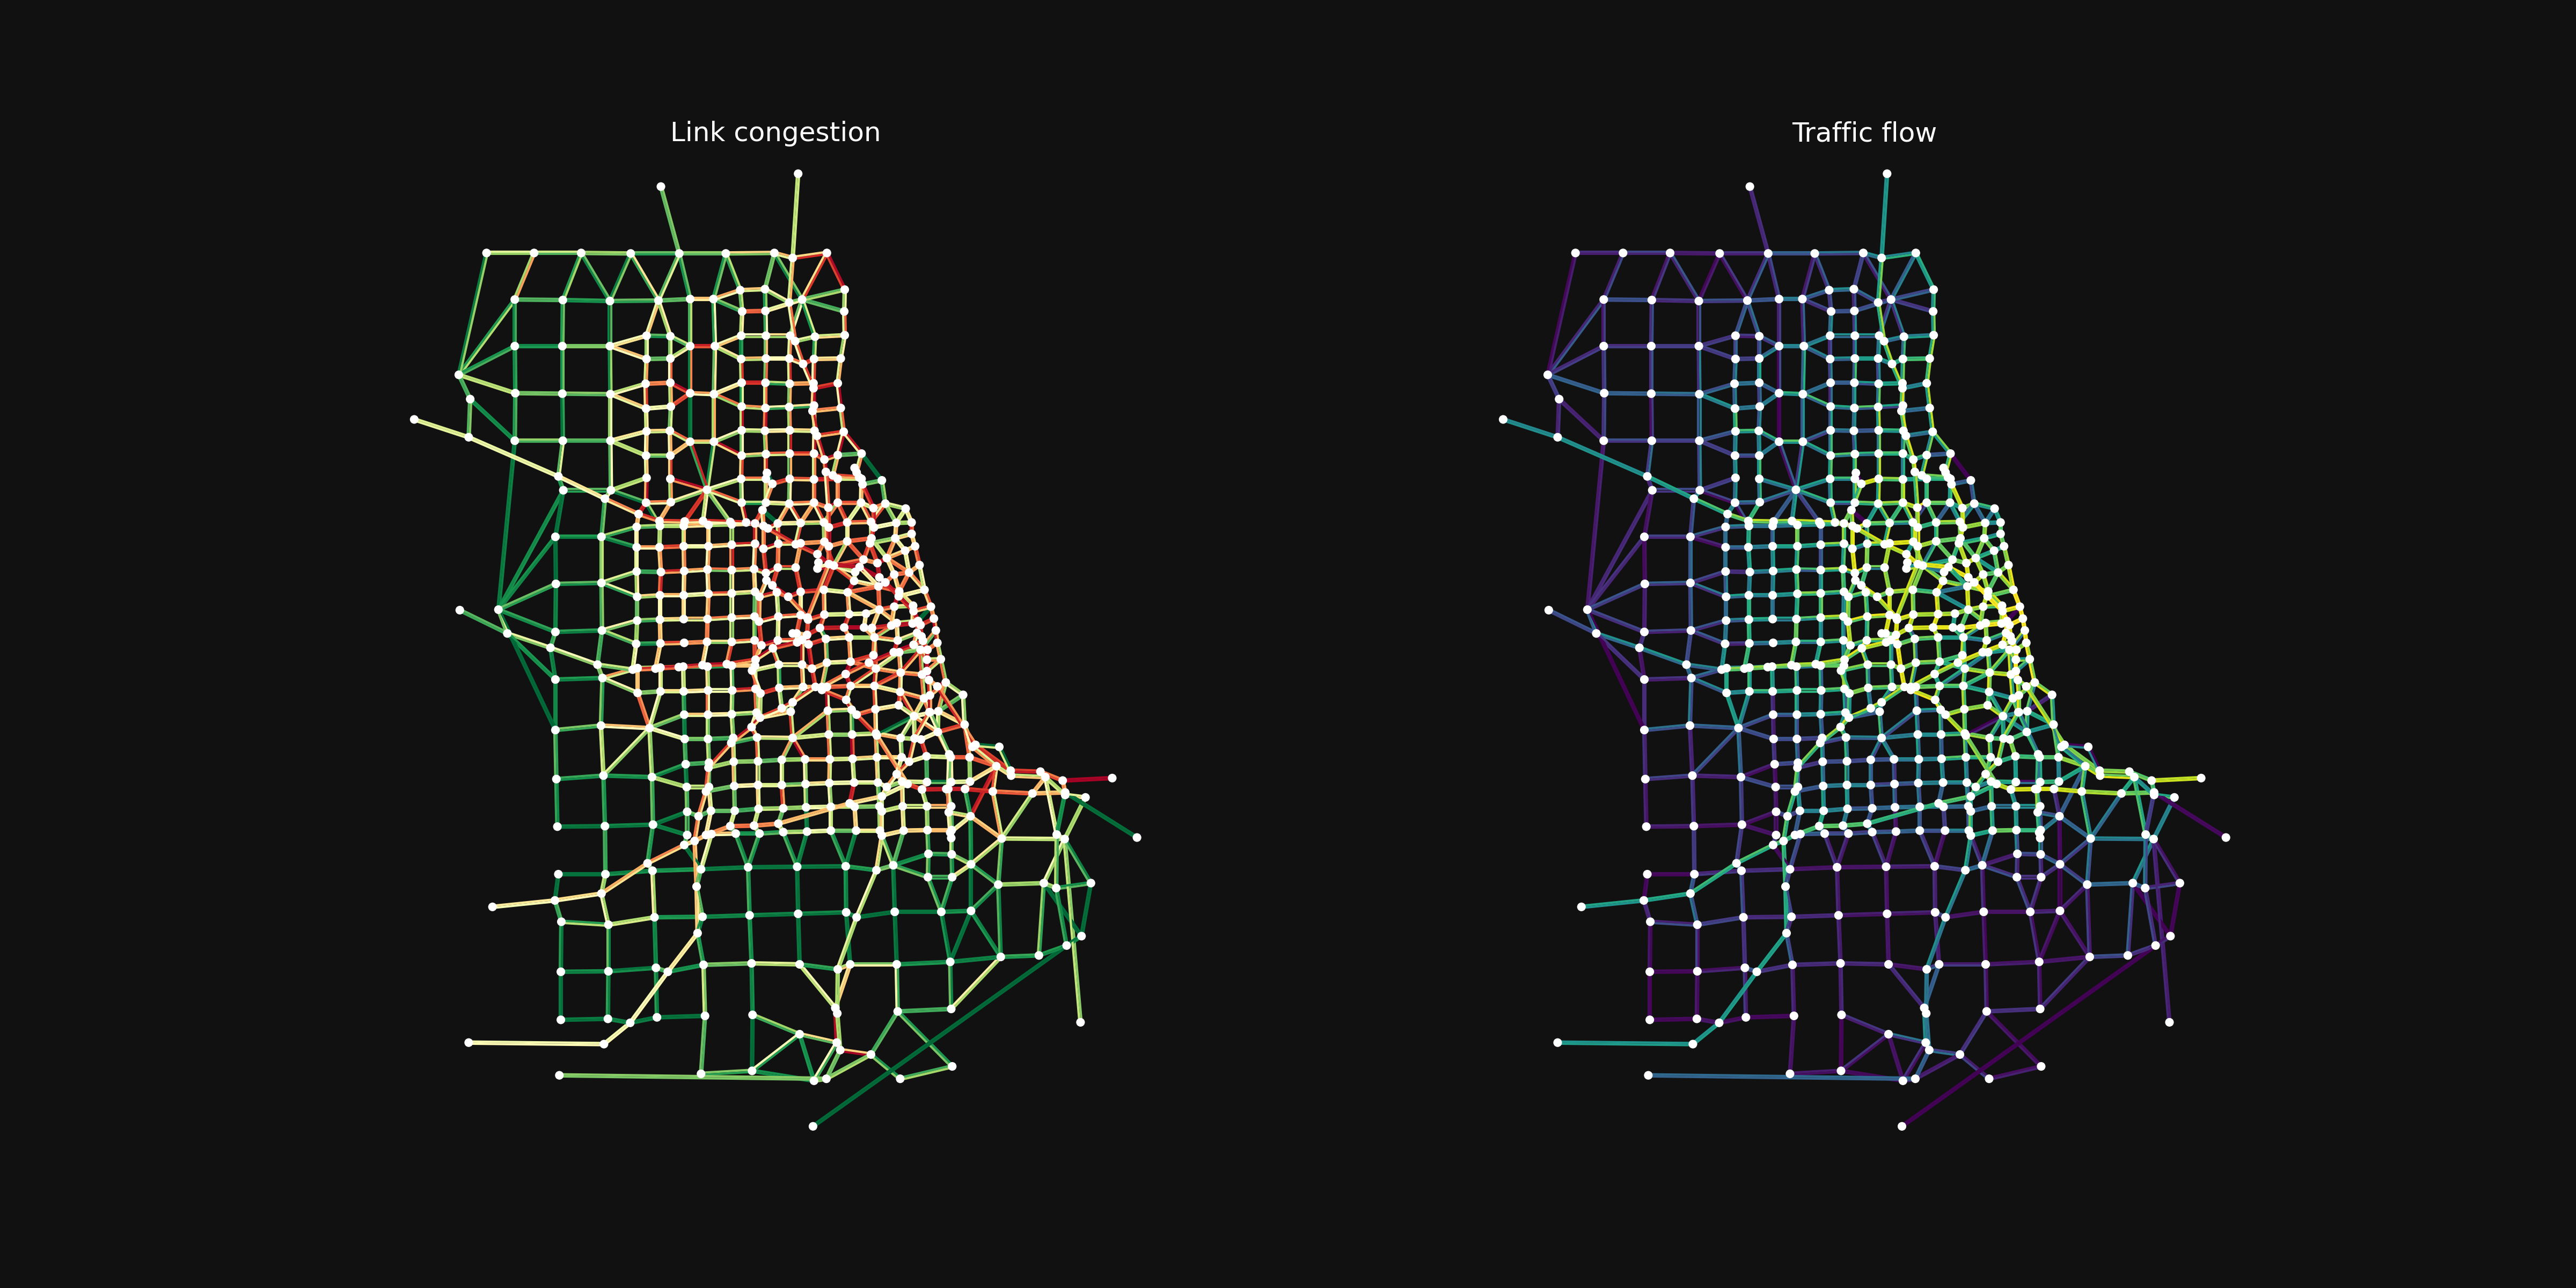
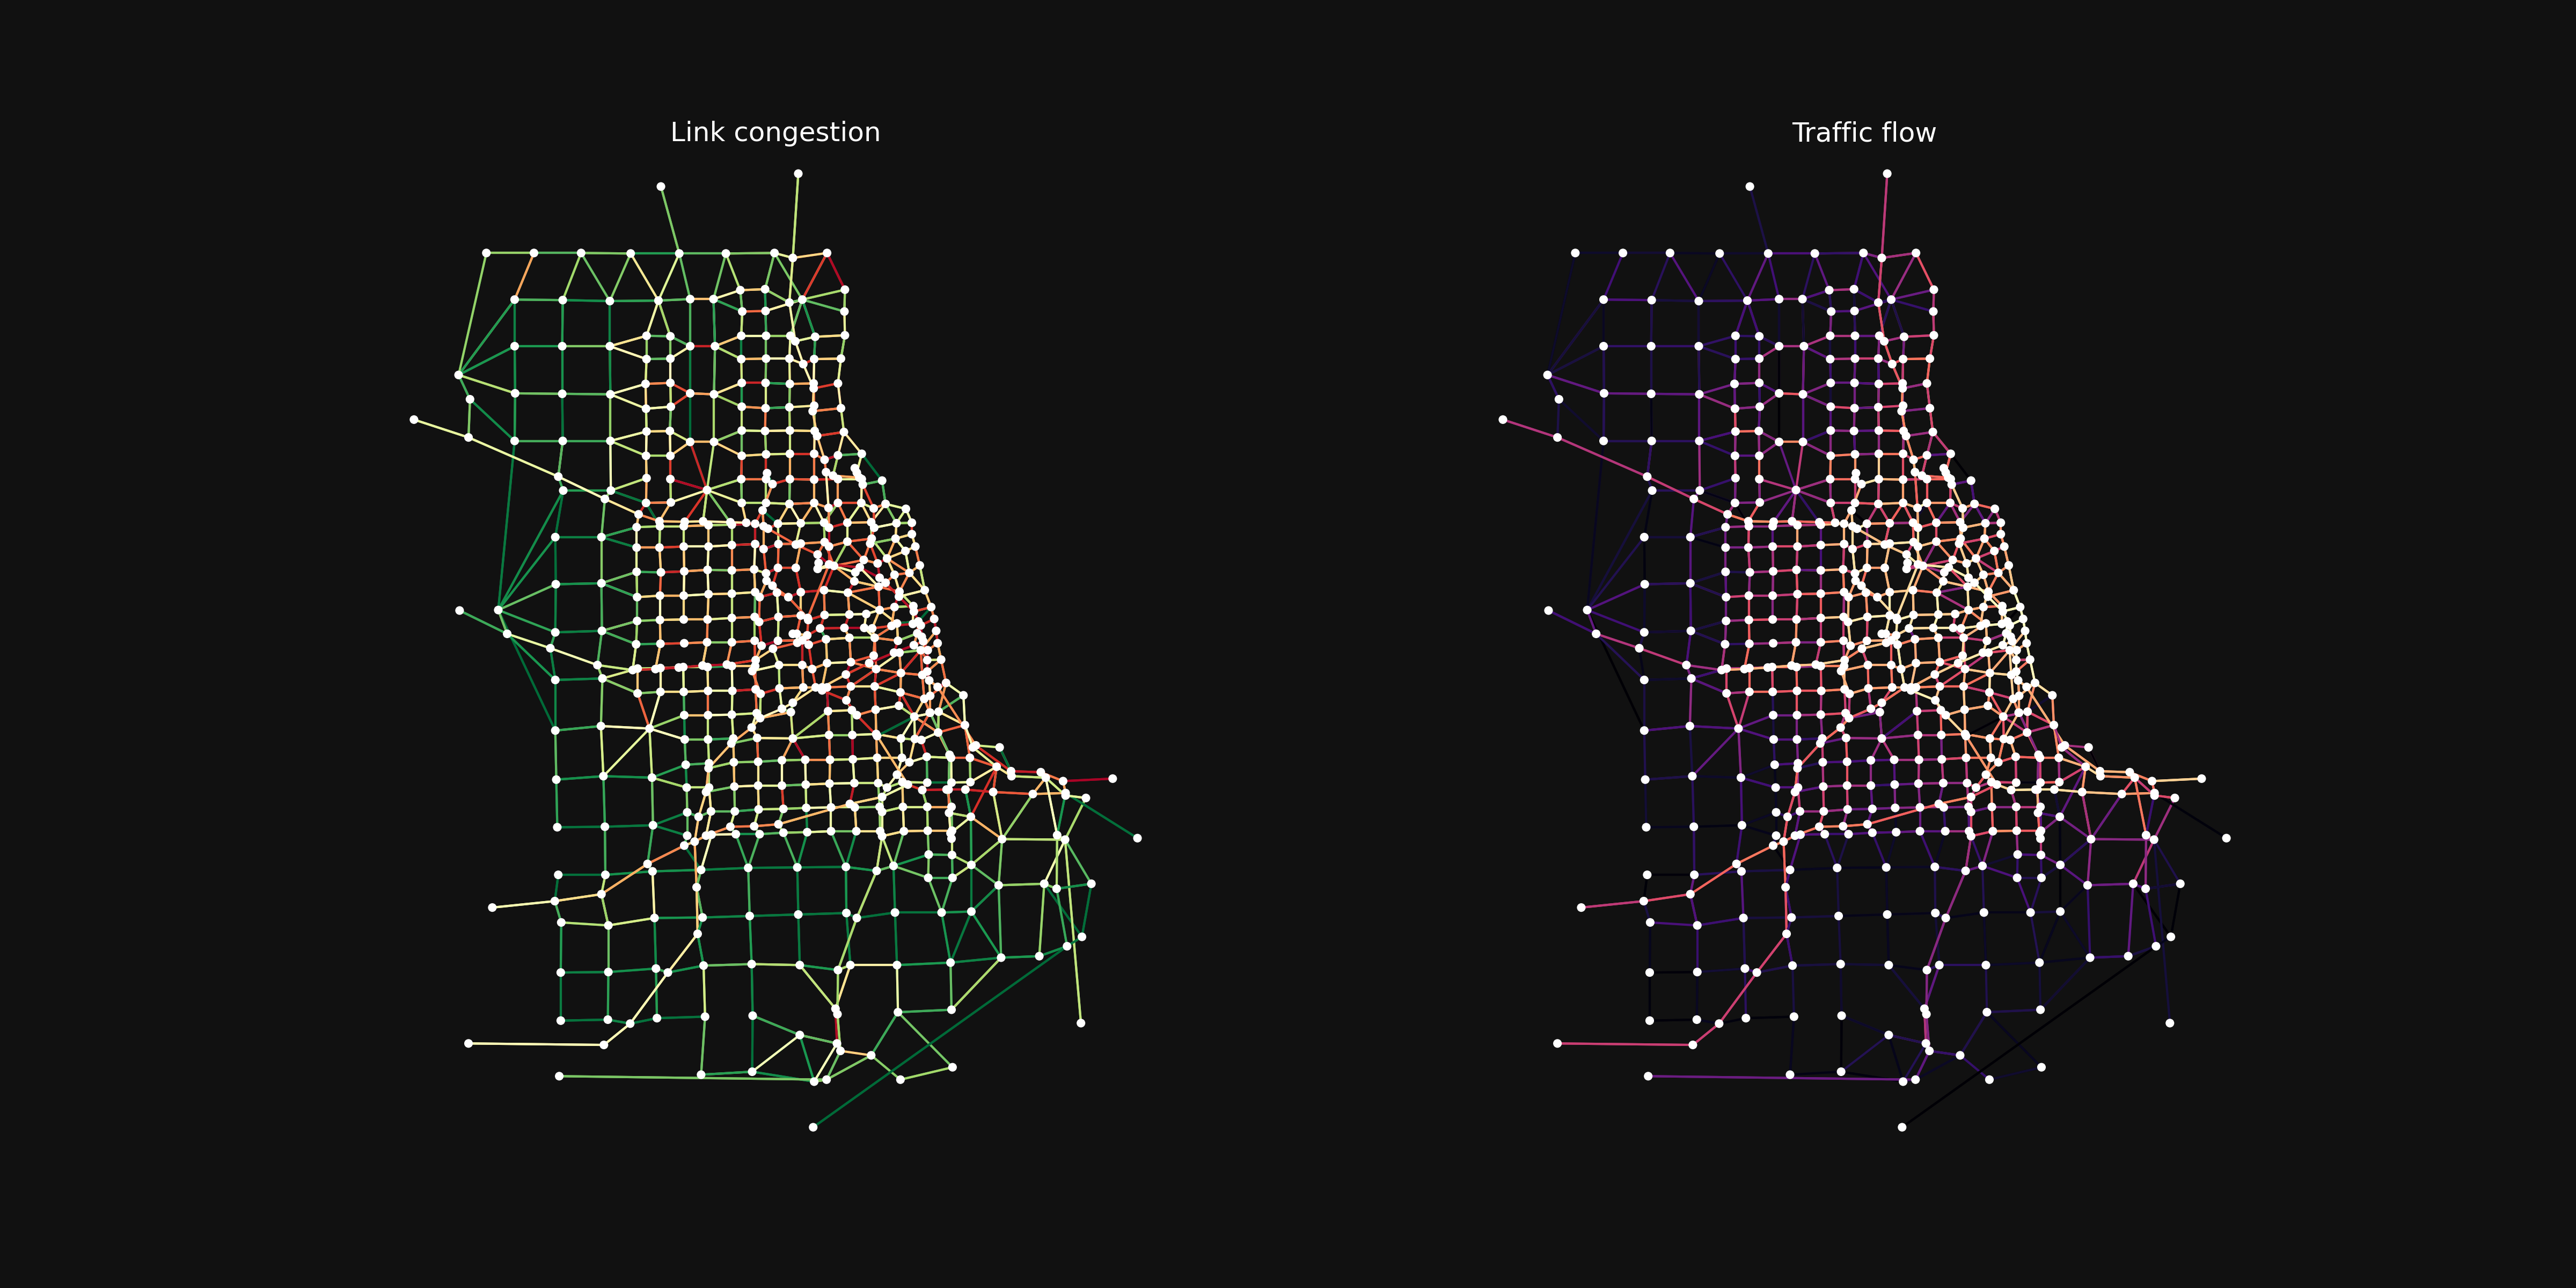
update readme, prepare for merge

Changed region(s): [[0.5938, 0.1875, 0.8438, 0.8438], [0.1562, 0.1875, 0.4375, 0.8438]]

diff --git a/src/tntp/vis.py b/src/tntp/vis.py
@@ -16,48 +16,3 @@ def quantile_edge_colors(G: nx.MultiDiGraph, attr: str, cmap: str) -> pd.Series:
     quantiles = vals.rank(pct=True)
     palette = plt.get_cmap(cmap)
     return quantiles.map(lambda q: matplotlib.colors.to_hex(palette(q)))
-
-
-def offset_parallel_edges(
-    G: nx.MultiDiGraph, *, offset_frac: float = 0.05, force: bool = False
-) -> None:
-    """Give each edge a perpendicular-offset ``geometry`` so parallel edges fan apart.
-
-    ``(u→v)`` and ``(v→u)`` automatically receive opposite normals because their
-    direction vectors flip sign. The offset distance is ``offset_frac`` of the
-    network's median edge length. Mutates ``G`` in place by setting each edge's
-    ``geometry`` attribute to a ``shapely.LineString``.
-
-    Raises ``ValueError`` if any edge already has a non-null ``geometry``
-    (e.g. from a prior call or a hand-set geometry); pass ``force=True`` to
-    overwrite anyway.
-    """
-    from shapely.geometry import LineString
-
-    if not force:
-        existing = nx.get_edge_attributes(G, "geometry")
-        if existing:
-            raise ValueError(
-                f"{len(existing)} edges already have a geometry attribute "
-                f"(first: {next(iter(existing))}). Pass force=True to overwrite."
-            )
-
-    node_x = nx.get_node_attributes(G, "x")
-    node_y = nx.get_node_attributes(G, "y")
-
-    edges = list(G.edges(keys=True))
-    ux = np.array([node_x[u] for u, _, _ in edges])
-    uy = np.array([node_y[u] for u, _, _ in edges])
-    vx = np.array([node_x[v] for _, v, _ in edges])
-    vy = np.array([node_y[v] for _, v, _ in edges])
-
-    dx, dy = vx - ux, vy - uy
-    length = np.hypot(dx, dy)
-    delta = np.median(length) * offset_frac
-    nx_off = -dy / length * delta
-    ny_off = dx / length * delta
-
-    u_pts = list(zip(ux + nx_off, uy + ny_off))
-    v_pts = list(zip(vx + nx_off, vy + ny_off))
-    for (u, v, k), u_pt, v_pt in zip(edges, u_pts, v_pts):
-        G[u][v][k]["geometry"] = LineString([u_pt, v_pt])

diff --git a/example.py b/example.py
@@ -20,8 +20,6 @@ network = tntp.convert_to_networkx(node_df, net_df)
 for u, v, k, data in network.edges(keys=True, data=True):
     data["vc_ratio"] = data["Volume"] / data["capacity"]
 
-tntp.offset_parallel_edges(network)
-
 # Plot only the road links — drop link_type==3 (centroid connectors) so they
 # don't clutter the map or compress the quantile colormap.
 road_edges = [(u, v, k) for u, v, k, d in network.edges(keys=True, data=True) if d.get("link_type") != 3]

diff --git a/README.md b/README.md
@@ -7,17 +7,4 @@ pip install git+https://github.com/ben-hudson/pytntp
 ```
 
 ## Example usage
-```
-root = "https://raw.githubusercontent.com/bstabler/TransportationNetworks/refs/heads/master/SiouxFalls/"
-flow_df = tntp.read_flow_file(urljoin(root, "SiouxFalls_flow.tntp")).rename(
-    columns={"From": "init_node", "To": "term_node"}
-)
-network = tntp.convert_to_networkx(
-    tntp.read_net_file(urljoin(root, "SiouxFalls_net.tntp"), crs="wgs84"),
-    tntp.read_node_file(urljoin(root, "SiouxFalls_node.tntp"), index_col="Node", x_col="X", y_col="Y", crs="wgs84"),
-    flow_df=flow_df,
-)
-
-colors = ox.plot.get_edge_colors_by_attr(network, "Cost", cmap="RdYlGn_r")
-ox.plot.plot_graph(network, edge_color=colors, show=False, save=True, dpi=300, filepath="example.png")
-```
+See [example.py](example.py) for a complete end-to-end example that loads a TNTP network, computes link congestion, and renders a two-panel visualization.